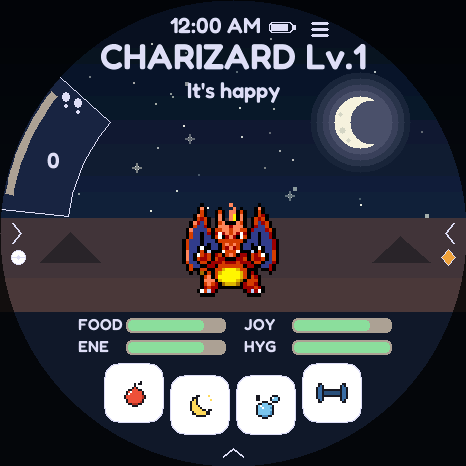
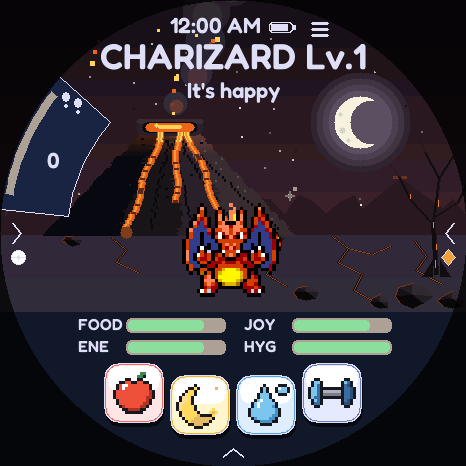
README: regenerate the screenshots and add day/night shots of every biome
tools/make_screens.sh gains 14 biome shots (one species per biome, hour 12 and
23) and the README shows them under Backgrounds. All other screenshots are
re-rendered from the current firmware.

diff --git a/README.md b/README.md
@@ -702,6 +702,18 @@ off the step counter at the far left and below the sun and moon.
 | Snow | ice | polar ice: faceted icebergs, an open lead, ridges and cracks, heavy slanted snowfall; at night a swaying aurora of green, cyan and violet rays | Piplup (Seel without the Sinnoh pack) |
 | Graveyard | ghost | haunted house with flickering windows, gnarled trees, iron fence, seven gravestones, scattered bones, drifting fog, will-o'-wisps, bats at night | Gastly / Haunter |
 
+Day on the top row, night underneath (regenerate with `bash tools/make_screens.sh`):
+
+| Meadow | Beach | Forest | Volcano |
+|---|---|---|---|
+| <img src="docs/screens/biome_meadow_day.png" width="180"> | <img src="docs/screens/biome_beach_day.png" width="180"> | <img src="docs/screens/biome_forest_day.png" width="180"> | <img src="docs/screens/biome_volcano_day.png" width="180"> |
+| <img src="docs/screens/biome_meadow_night.png" width="180"> | <img src="docs/screens/biome_beach_night.png" width="180"> | <img src="docs/screens/biome_forest_night.png" width="180"> | <img src="docs/screens/biome_volcano_night.png" width="180"> |
+
+| Mountain | Snow | Graveyard |
+|---|---|---|
+| <img src="docs/screens/biome_mountain_day.png" width="180"> | <img src="docs/screens/biome_snow_day.png" width="180"> | <img src="docs/screens/biome_graveyard_day.png" width="180"> |
+| <img src="docs/screens/biome_mountain_night.png" width="180"> | <img src="docs/screens/biome_snow_night.png" width="180"> | <img src="docs/screens/biome_graveyard_night.png" width="180"> |
+
 The residents are real PMD sprites, kept small and behind the pet. Each is loaded
 only while its biome is on screen (about 110-180 KB of PSRAM) and freed when the
 biome changes; a species whose pack is not on the card simply does not appear.
